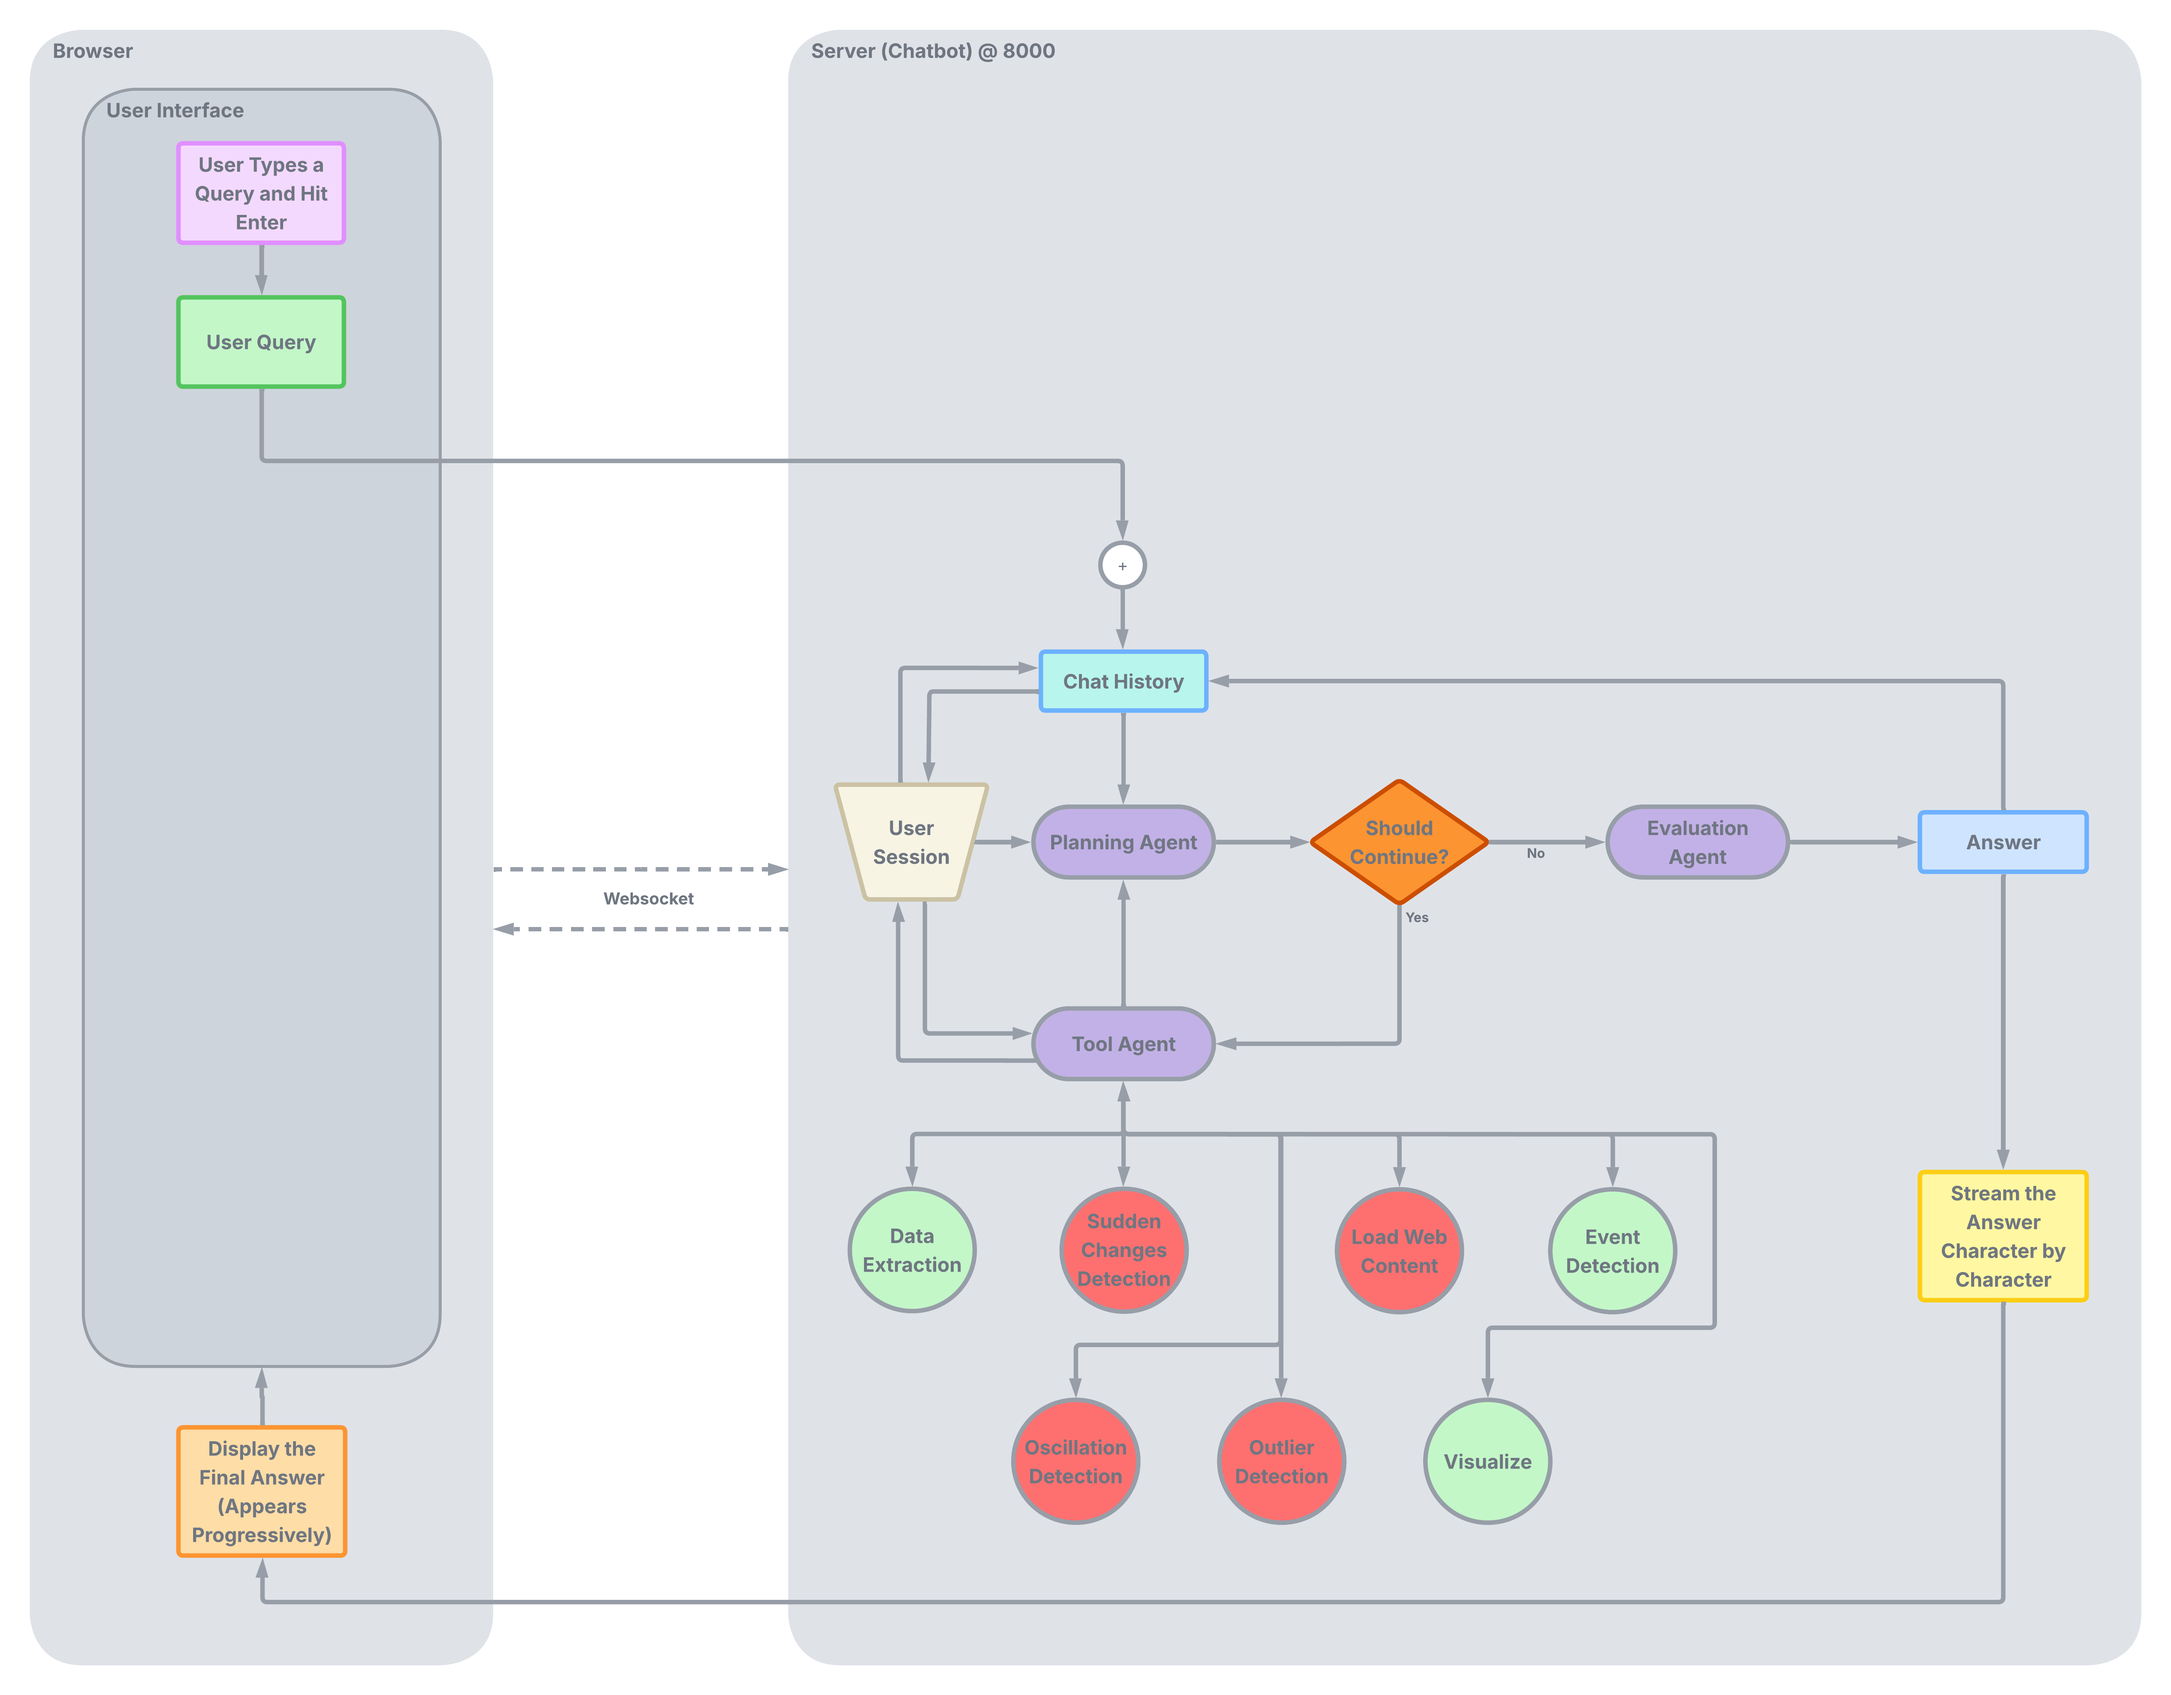
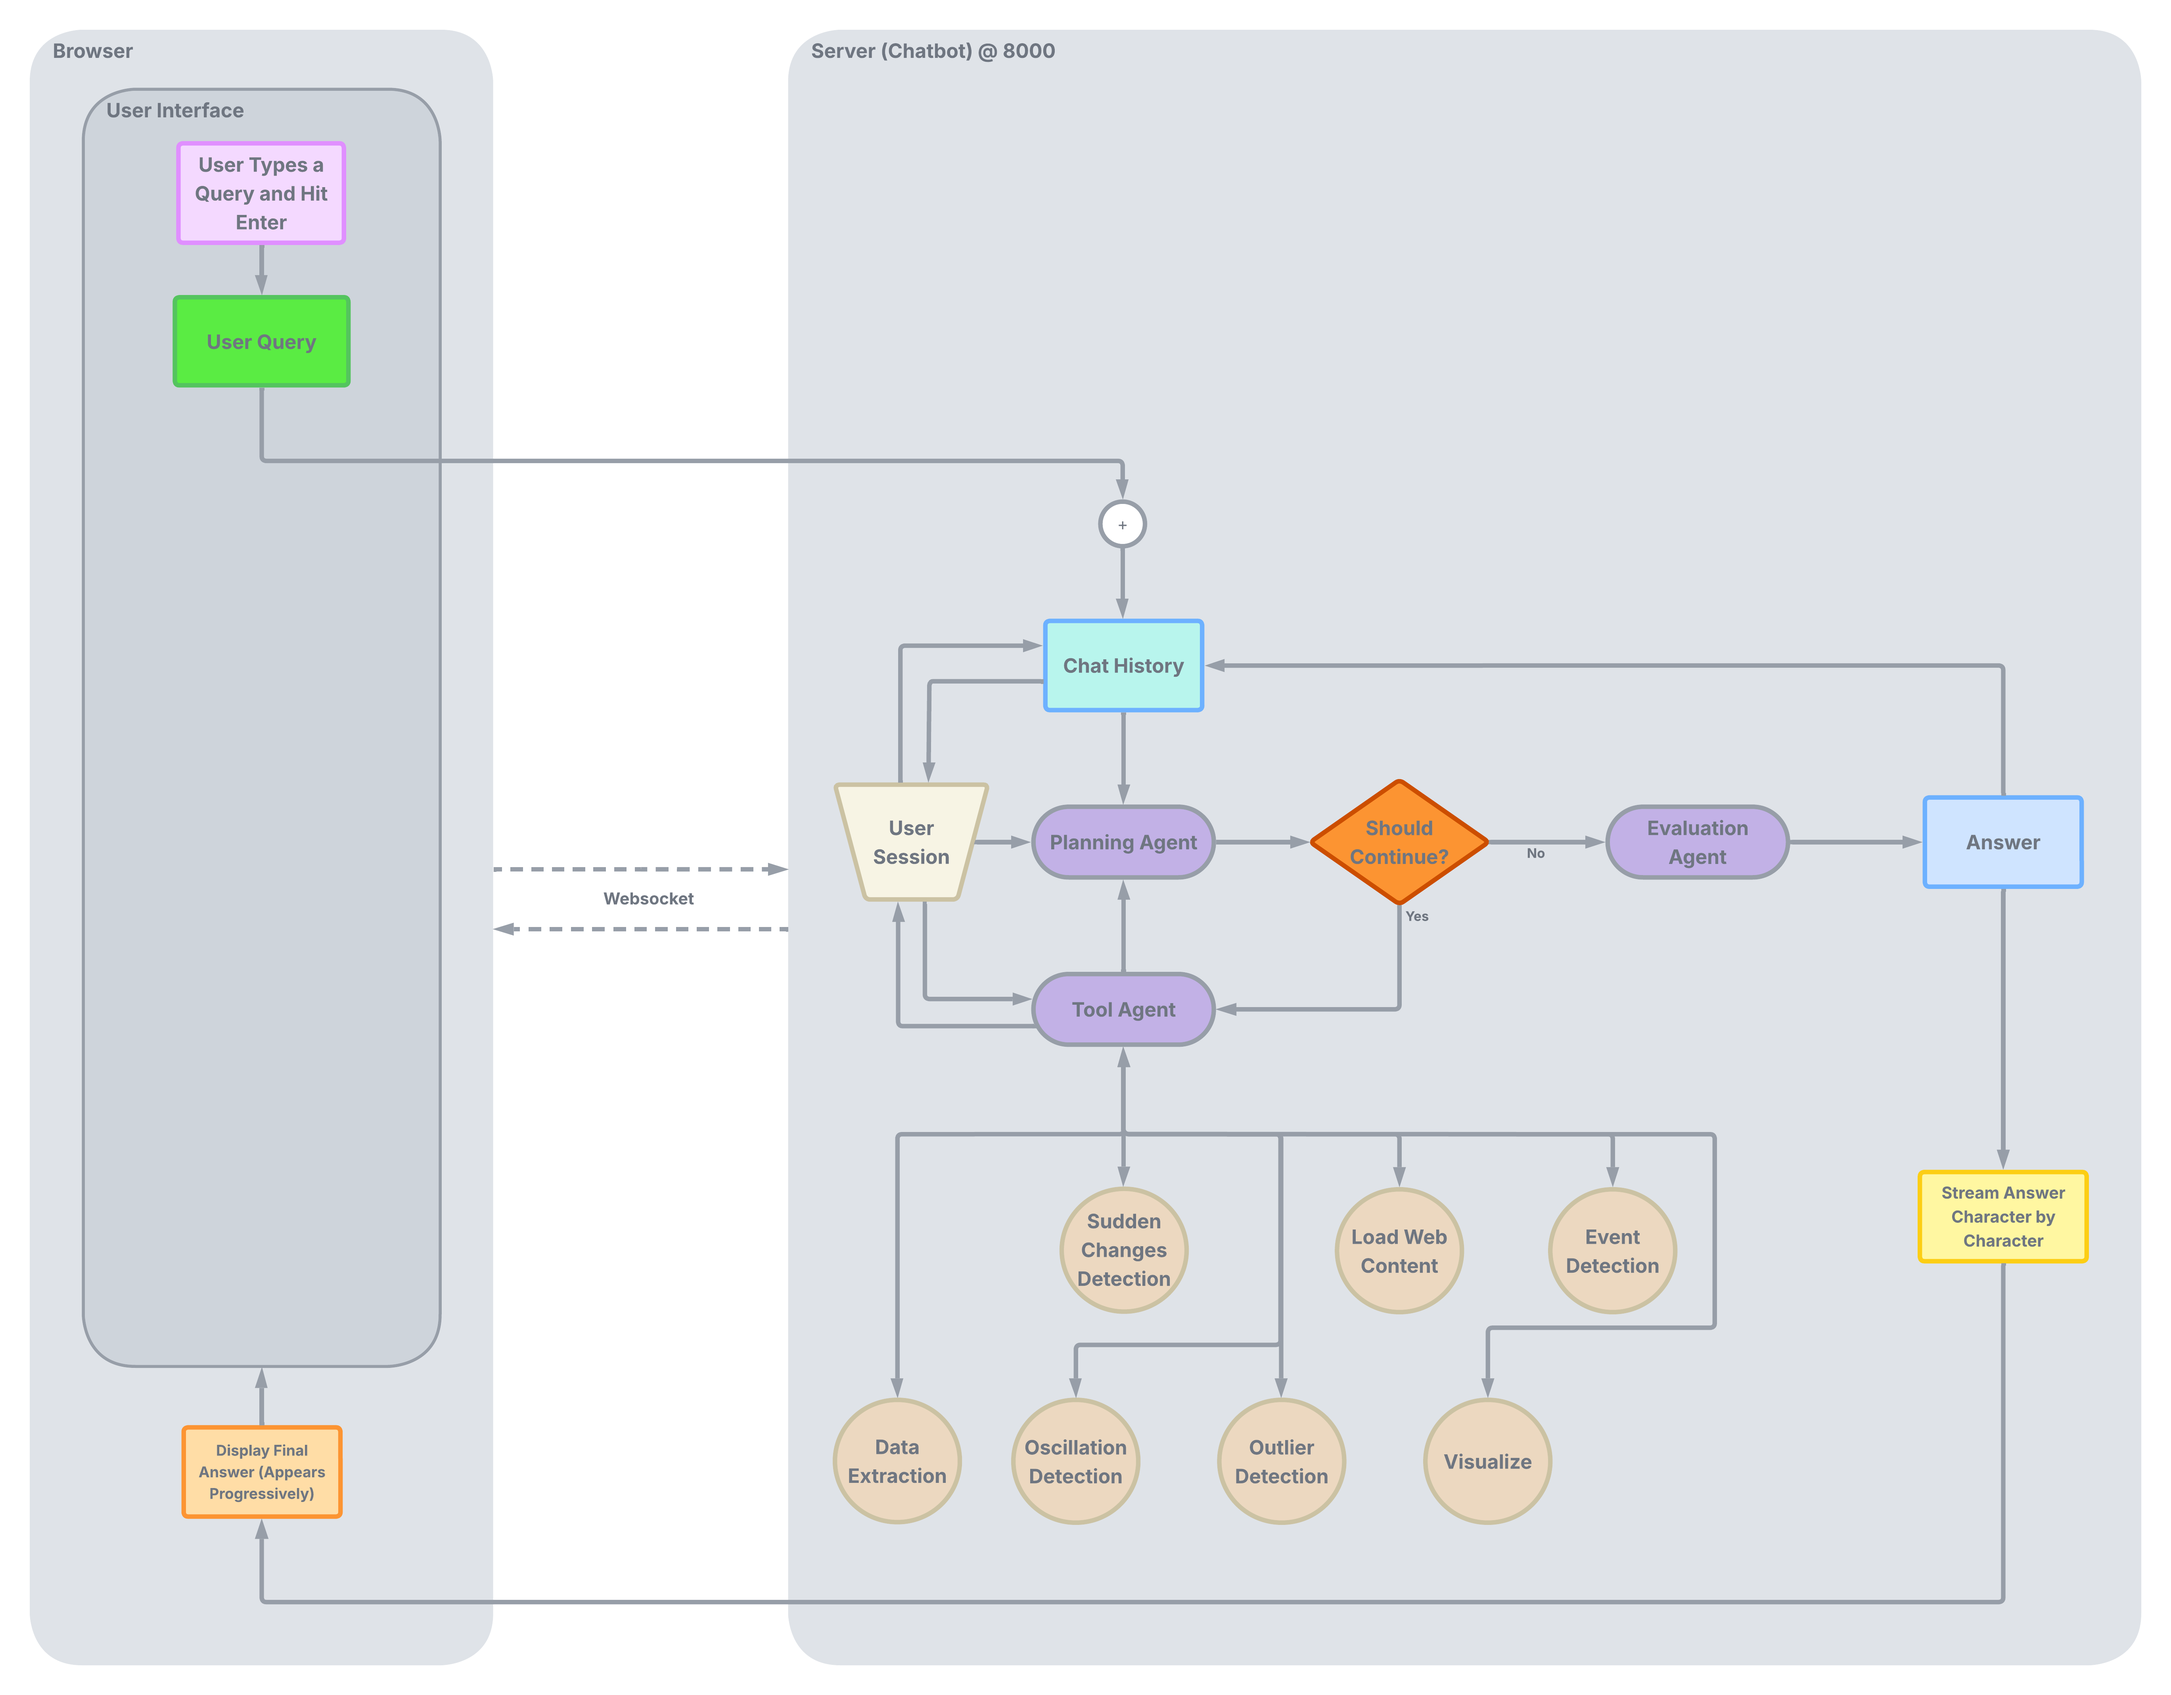
docs: update instructions and flow charts in the .md files

diff --git a/README.md b/README.md
@@ -125,7 +125,7 @@ Considering that I had already used LangChain and LangGraph during the process, 
 
 `To be announced`
 
-# Running  
+## Deploy in AWS
 
 Create a `files` folder inside `api`
 
@@ -133,7 +133,7 @@ Create a `files` folder inside `api`
 mkdir -p api/files
 ```
 
-## Configure Environment Variables
+**1) Configure Environment Variables**
 
 Create an `.env` file in the root folder with the following values. The environment variables will be automatically loaded when you run the development server:
 
@@ -150,7 +150,7 @@ VUE_APP_MAPTILER_KEY=<your_maptiler_key>
 
 # OpenAI 
 LLM_PROVIDER=anthropic
-OPENAI_API_KEY=<your_openai_api_key>          
+OPENAI_API_KEY=<your_openai_api_key>         
 ANTHROPIC_API_KEY=<your_anthropic_api_key>
 
 # Firecrawl
@@ -186,9 +186,7 @@ AUTH_COOKIE_SECURE=true                         # Set to true in production (req
 AUTH_COOKIE_SAMESITE=lax                        # lax (default) for same-origin dev; none + secure=true for cross-site iframes
 ```
 
-## Deploy in AWS
-
-**1) Create EC2 Instance**
+**2) Create EC2 Instance**
 
 - AMI: Ubuntu 24.04 LTS
 - Instance type: m7i-flex.large
@@ -198,7 +196,7 @@ AUTH_COOKIE_SAMESITE=lax                        # lax (default) for same-origin 
 
 **Note**: By default, EC2 blocks all inbound traffic. The security group acts as the firewall for the EC2 instance and determines which sources and ports are allowed to reach the machine.
 
-**2) Connect and Prepare the Machine**
+**3) Connect and Prepare the Machine**
   
 ```bash  
 ssh -i your-key.pem ubuntu@your-public-ip
@@ -219,7 +217,7 @@ exit
 ssh -i your-key.pem ubuntu@your-public-ip
 ```
 
-**3) Deploy Code**
+**4) Deploy Code**
 
 Clone your repository and configure environment:
 
@@ -232,17 +230,17 @@ touch .env
 nano .env   # set OPENAI_API_KEY, VUE_APP_CESIUM_TOKEN, FIRECRAWL_API_KEY, etc.
 ```
 
-**4) Register a Domain Name**
+**5) Register a Domain Name**
 
 Buy a domain (let's call it `agenticdas.com`) from a registrar (e.g., Namecheap, Cloudflare, GoDaddy, or Google Domains).  A `.com` domain costs about $10/year.
 
-**5) Point the Domain at the EC2 Instance** 
+**6) Point the Domain at the EC2 Instance** 
 
 In the DNS panel, create two A records for mapping the domain into the IP address of the EC2 instance:
-- agenticdas.com → <your-ec2-public-ip>
-- www.agenticdas.com → <your-ec2-public-ip>
+- agenticdas.com: <your-ec2-public-ip>
+- www.agenticdas.com: <your-ec2-public-ip>
 
-**6) Verify the Mapping Locally**
+**7) Verify the Mapping Locally**
 
 Run the command below in your terminal to verify whether the domain points to the EC2 created in the 1st step.
 
@@ -250,7 +248,7 @@ Run the command below in your terminal to verify whether the domain points to th
 dig +short agenticdas.com
 ``` 
 
-**7) Obtain a Certificate from Certificate Authority**
+**8) Obtain a Certificate from Certificate Authority**
 
 Install the Certbot on the EC2. 
 
@@ -268,16 +266,16 @@ ssl_certificate /etc/letsencrypt/live/agenticdas.com/fullchain.pem;
 ssl_certificate_key /etc/letsencrypt/live/agenticdas.com/privkey.pem;
 ```
 
-**8) Enable Secure Cookies** 
+**9) Enable Secure Cookies** 
 
-Make sure that `AUTH_COOKIE_SECURE` is defined as `True` in the `.env` file.
+Make sure that `AUTH_COOKIE_SECURE` is defined as `true` in the `.env` file.
 
-**9) Launch Services in EC2**
+**10) Launch Services in EC2**
   
 ```bash
 docker-compose up -d
 ```
-**10) Access**
+**11) Access**
 
 - UI at `http://www.agenticdas.com/`
 - Sign up: `admin` / `password`

diff --git a/index.md b/index.md
@@ -150,7 +150,7 @@ Considering that I had already used LangChain and LangGraph during the process, 
 
 `To be announced`
 
-# Running  
+## Deploy in AWS
 
 Create a `files` folder inside `api`
 
@@ -158,7 +158,7 @@ Create a `files` folder inside `api`
 mkdir -p api/files
 ```
 
-## Configure Environment Variables
+**1) Configure Environment Variables**
 
 Create an `.env` file in the root folder with the following values. The environment variables will be automatically loaded when you run the development server:
 
@@ -211,9 +211,7 @@ AUTH_COOKIE_SECURE=true                         # Set to true in production (req
 AUTH_COOKIE_SAMESITE=lax                        # lax (default) for same-origin dev; none + secure=true for cross-site iframes
 ```
 
-## Deploy in AWS
-
-**1) Create EC2 Instance**
+**2) Create EC2 Instance**
 
 - AMI: Ubuntu 24.04 LTS
 - Instance type: m7i-flex.large
@@ -223,7 +221,7 @@ AUTH_COOKIE_SAMESITE=lax                        # lax (default) for same-origin 
 
 **Note**: By default, EC2 blocks all inbound traffic. The security group acts as the firewall for the EC2 instance and determines which sources and ports are allowed to reach the machine.
 
-**2) Connect and Prepare the Machine**
+**3) Connect and Prepare the Machine**
   
 ```bash  
 ssh -i your-key.pem ubuntu@your-public-ip
@@ -244,7 +242,7 @@ exit
 ssh -i your-key.pem ubuntu@your-public-ip
 ```
 
-**3) Deploy Code**
+**4) Deploy Code**
 
 Clone your repository and configure environment:
 
@@ -257,17 +255,17 @@ touch .env
 nano .env   # set OPENAI_API_KEY, VUE_APP_CESIUM_TOKEN, FIRECRAWL_API_KEY, etc.
 ```
 
-**4) Register a Domain Name**
+**5) Register a Domain Name**
 
 Buy a domain (let's call it `agenticdas.com`) from a registrar (e.g., Namecheap, Cloudflare, GoDaddy, or Google Domains).  A `.com` domain costs about $10/year.
 
-**5) Point the Domain at the EC2 Instance** 
+**6) Point the Domain at the EC2 Instance** 
 
 In the DNS panel, create two A records for mapping the domain into the IP address of the EC2 instance:
-- agenticdas.com → <your-ec2-public-ip>
-- www.agenticdas.com → <your-ec2-public-ip>
+- agenticdas.com: <your-ec2-public-ip>
+- www.agenticdas.com: <your-ec2-public-ip>
 
-**6) Verify the Mapping Locally**
+**7) Verify the Mapping Locally**
 
 Run the command below in your terminal to verify whether the domain points to the EC2 created in the 1st step.
 
@@ -275,7 +273,7 @@ Run the command below in your terminal to verify whether the domain points to th
 dig +short agenticdas.com
 ``` 
 
-**7) Obtain a Certificate from Certificate Authority**
+**8) Obtain a Certificate from Certificate Authority**
 
 Install the Certbot on the EC2. 
 
@@ -293,16 +291,16 @@ ssl_certificate /etc/letsencrypt/live/agenticdas.com/fullchain.pem;
 ssl_certificate_key /etc/letsencrypt/live/agenticdas.com/privkey.pem;
 ```
 
-**8) Enable Secure Cookies** 
+**9) Enable Secure Cookies** 
 
-Make sure that `AUTH_COOKIE_SECURE` is defined as `True` in the `.env` file.
+Make sure that `AUTH_COOKIE_SECURE` is defined as `true` in the `.env` file.
 
-**9) Launch Services in EC2**
+**10) Launch Services in EC2**
   
 ```bash
 docker-compose up -d
 ```
-**10) Access**
+**11) Access**
 
 - UI at `http://www.agenticdas.com/`
 - Sign up: `admin` / `password`
